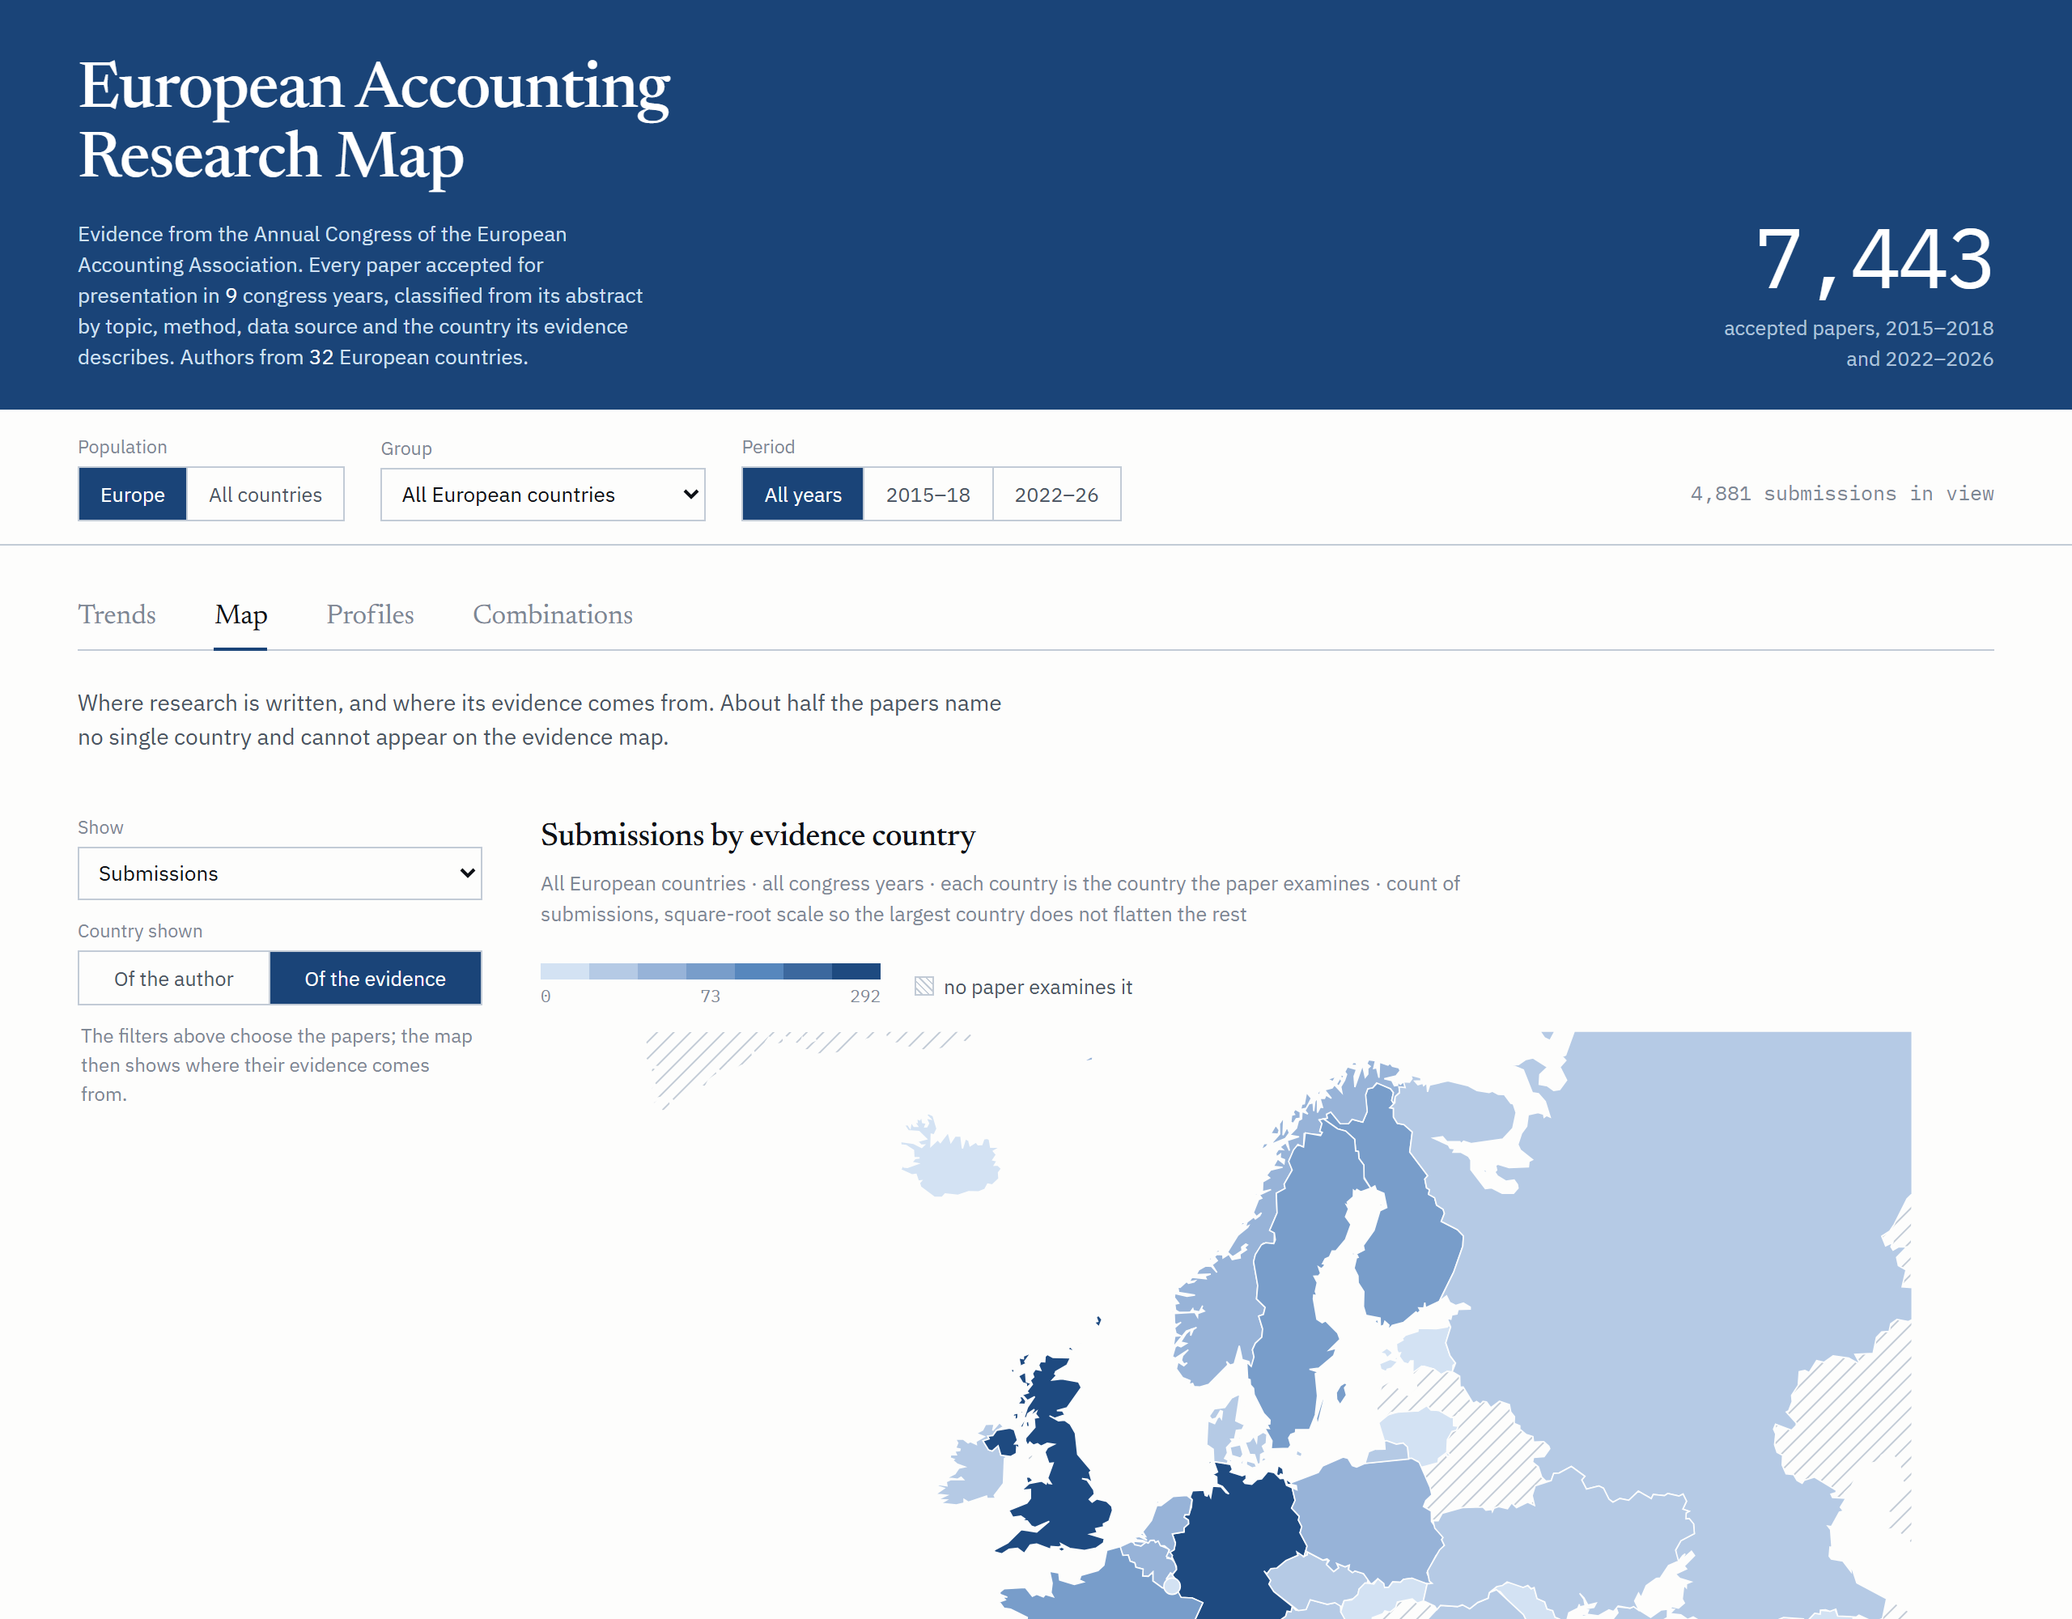
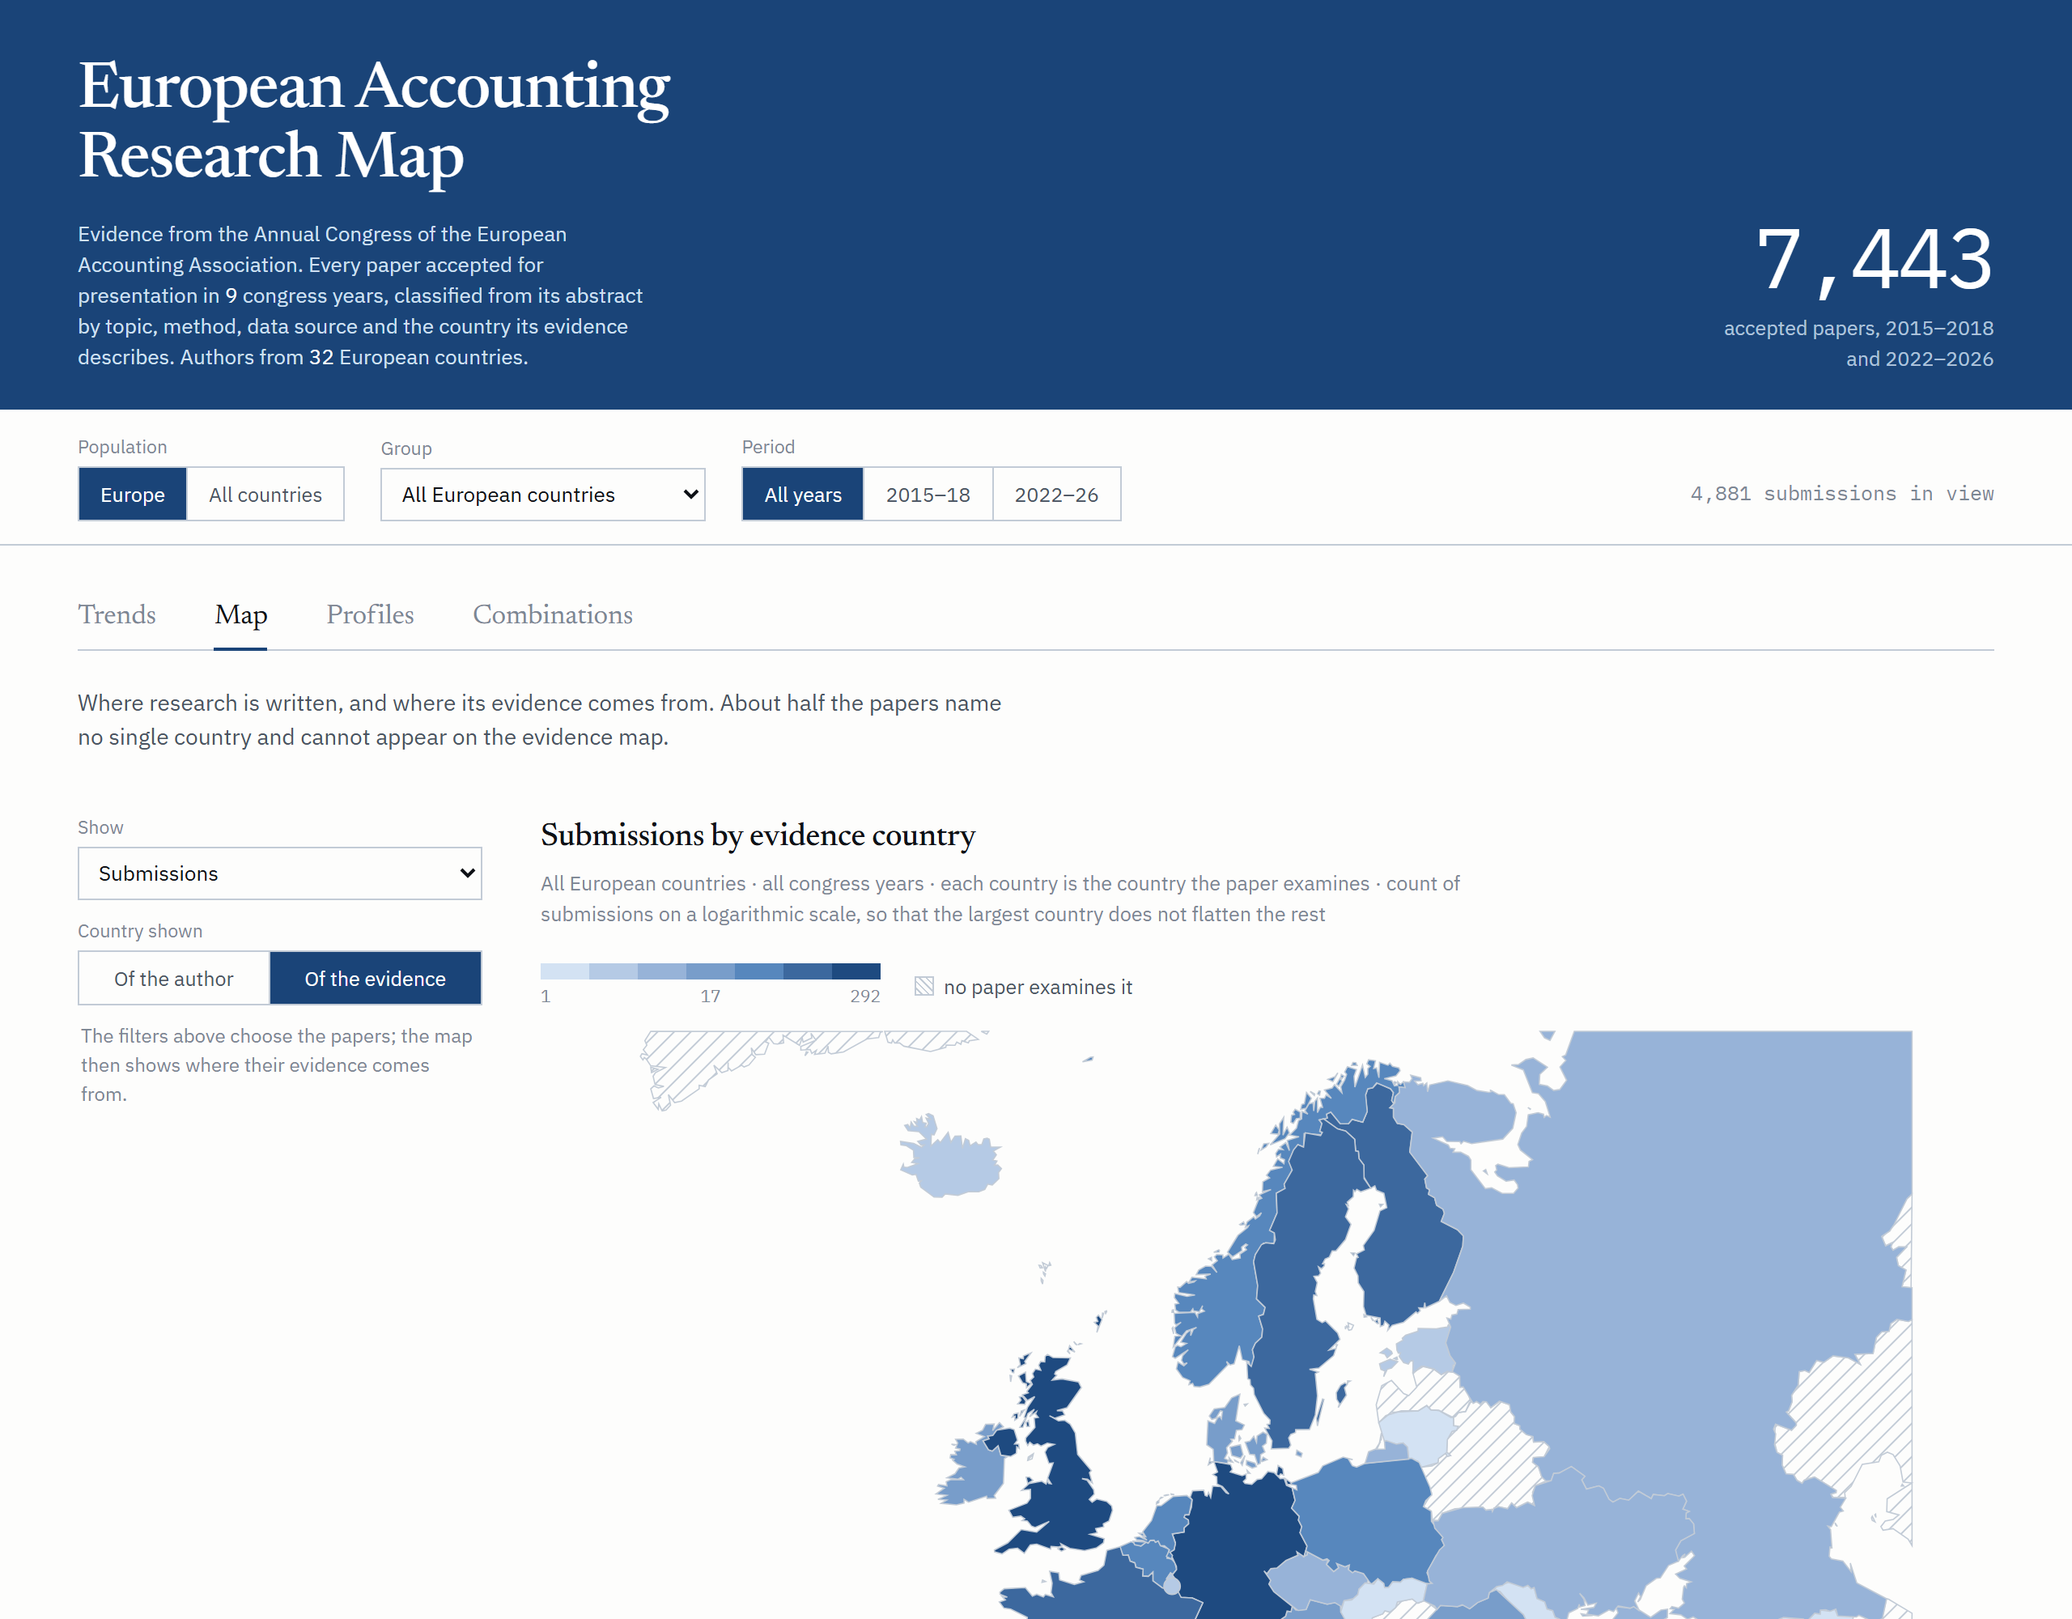
Logarithmic counts and visible borders, so small countries are findable

diff --git a/docs/index.html b/docs/index.html
@@ -222,7 +222,7 @@ tbody tr:last-child { border-bottom:0; }
 .foot b { color:var(--ink-2); font-weight:500; }
 /* map: sized by its own frame rather than stretched to the column */
 #m-plot svg { display:block; width:auto; max-width:100%; max-height:560px; }
-.shape { stroke:var(--surface); stroke-width:0.7; }
+.shape { stroke:var(--axis); stroke-width:0.8; vector-effect:non-scaling-stroke; }
 /* Colour cannot reliably separate "at the average", "no data" and "not in
    this map" at low chroma, least of all for a colour-blind reader. So only
    countries with something to show are filled; the rest are told apart by
@@ -934,14 +934,14 @@ function mapDim() {
   return ['topics','methods','sources'].includes(S.mshow) ? S.mshow : null;
 }
 
-function rampLegend(max, sqrtScale, pct, tokens, diverging) {
+function rampLegend(max, logScale, pct, tokens, diverging) {
   const w = 210, sw = w / 7;
   const svg = el('svg', { viewBox: '0 0 ' + w + ' 28', width: w, height: 28,
     role: 'img', 'aria-label': 'colour scale' });
   for (let k = 0; k < 7; k++)
     svg.appendChild(el('rect', { x: k * sw, y: 0, width: sw + 0.4, height: 10, fill: cssv(tokens[k]) }));
   const at = k => diverging ? (k / 7 * 2 - 1) * max
-                : sqrtScale ? Math.pow(k / 7, 2) * max : k / 7 * max;
+                : logScale ? Math.pow(max, k / 7) : k / 7 * max;
   const lab = v => diverging ? (v > 0 ? '+' : '') + Math.round(v) + ' pp'
                  : pct ? fmt(v, v > 0 && v < 10 ? 1 : 0) + '%'
                  : Math.round(v).toLocaleString('en-US');
@@ -995,7 +995,10 @@ function drawMap() {
                      .sort((a, b) => b.n - a.n);
 
   const vals = [...per.values()].filter(o => o.v !== null && placed(o.code)).map(o => o.v);
-  const sqrtScale = !I;              // counts are heavily skewed, differences are not
+  // Counts run from one paper to more than a thousand. On a linear or even a
+  // square-root scale every small country lands in the palest step and cannot
+  // be told apart from the page; on a logarithmic one they separate.
+  const logScale = !I;
   // Counts run to the largest observed value so the darkest step is a real
   // country. Differences run symmetrically about zero, so that the neutral
   // middle of the ramp always means "the same as Europe".
@@ -1003,7 +1006,7 @@ function drawMap() {
                 : Math.max(0.001, ...(vals.length ? vals : [1]));
   const bucket = I
     ? v => Math.min(6, Math.max(0, Math.floor((v + max) / (2 * max) * 7 * 0.999)))
-    : v => Math.min(6, Math.floor(Math.sqrt(v / max) * 7 * 0.999));
+    : v => Math.min(6, Math.max(0, Math.floor(Math.log(v) / Math.log(max) * 7 * 0.999)));
 
   // In the evidence view every country on earth is eligible; in the author
   // view the population and group filters decide who belongs on the map.
@@ -1113,7 +1116,7 @@ function drawMap() {
   } else if (used.ramp) {
     const sp = document.createElement('span');
     sp.className = 'ramp';
-    sp.appendChild(rampLegend(max, sqrtScale, !!I, I ? DR : QR, !!I));
+    sp.appendChild(rampLegend(max, logScale, !!I, I ? DR : QR, !!I));
     lg.appendChild(sp);
   }
   if (used.thin) swatch('repeating-linear-gradient(45deg, transparent 0 2px, ' +
@@ -1141,7 +1144,8 @@ function drawMap() {
         (I ? 'percentage points above or below the European share of ' + fmt(pE) +
              ' percent · shaded only from ' + MINN + ' submissions upward, because below that a ' +
              'share describes a research group rather than a country'
-           : 'count of submissions, square-root scale so the largest country does not flatten the rest');
+           : 'count of submissions on a logarithmic scale, so that the largest country ' +
+             'does not flatten the rest');
 
   const note = [];
   if (!family && S.mbasis === 'evidence')

diff --git a/build/dashboard.html b/build/dashboard.html
@@ -198,7 +198,7 @@ tbody tr:last-child { border-bottom:0; }
 .foot b { color:var(--ink-2); font-weight:500; }
 /* map: sized by its own frame rather than stretched to the column */
 #m-plot svg { display:block; width:auto; max-width:100%; max-height:560px; }
-.shape { stroke:var(--surface); stroke-width:0.7; }
+.shape { stroke:var(--axis); stroke-width:0.8; vector-effect:non-scaling-stroke; }
 /* Colour cannot reliably separate "at the average", "no data" and "not in
    this map" at low chroma, least of all for a colour-blind reader. So only
    countries with something to show are filled; the rest are told apart by
@@ -909,14 +909,14 @@ function mapDim() {
   return ['topics','methods','sources'].includes(S.mshow) ? S.mshow : null;
 }
 
-function rampLegend(max, sqrtScale, pct, tokens, diverging) {
+function rampLegend(max, logScale, pct, tokens, diverging) {
   const w = 210, sw = w / 7;
   const svg = el('svg', { viewBox: '0 0 ' + w + ' 28', width: w, height: 28,
     role: 'img', 'aria-label': 'colour scale' });
   for (let k = 0; k < 7; k++)
     svg.appendChild(el('rect', { x: k * sw, y: 0, width: sw + 0.4, height: 10, fill: cssv(tokens[k]) }));
   const at = k => diverging ? (k / 7 * 2 - 1) * max
-                : sqrtScale ? Math.pow(k / 7, 2) * max : k / 7 * max;
+                : logScale ? Math.pow(max, k / 7) : k / 7 * max;
   const lab = v => diverging ? (v > 0 ? '+' : '') + Math.round(v) + ' pp'
                  : pct ? fmt(v, v > 0 && v < 10 ? 1 : 0) + '%'
                  : Math.round(v).toLocaleString('en-US');
@@ -970,7 +970,10 @@ function drawMap() {
                      .sort((a, b) => b.n - a.n);
 
   const vals = [...per.values()].filter(o => o.v !== null && placed(o.code)).map(o => o.v);
-  const sqrtScale = !I;              // counts are heavily skewed, differences are not
+  // Counts run from one paper to more than a thousand. On a linear or even a
+  // square-root scale every small country lands in the palest step and cannot
+  // be told apart from the page; on a logarithmic one they separate.
+  const logScale = !I;
   // Counts run to the largest observed value so the darkest step is a real
   // country. Differences run symmetrically about zero, so that the neutral
   // middle of the ramp always means "the same as Europe".
@@ -978,7 +981,7 @@ function drawMap() {
                 : Math.max(0.001, ...(vals.length ? vals : [1]));
   const bucket = I
     ? v => Math.min(6, Math.max(0, Math.floor((v + max) / (2 * max) * 7 * 0.999)))
-    : v => Math.min(6, Math.floor(Math.sqrt(v / max) * 7 * 0.999));
+    : v => Math.min(6, Math.max(0, Math.floor(Math.log(v) / Math.log(max) * 7 * 0.999)));
 
   // In the evidence view every country on earth is eligible; in the author
   // view the population and group filters decide who belongs on the map.
@@ -1088,7 +1091,7 @@ function drawMap() {
   } else if (used.ramp) {
     const sp = document.createElement('span');
     sp.className = 'ramp';
-    sp.appendChild(rampLegend(max, sqrtScale, !!I, I ? DR : QR, !!I));
+    sp.appendChild(rampLegend(max, logScale, !!I, I ? DR : QR, !!I));
     lg.appendChild(sp);
   }
   if (used.thin) swatch('repeating-linear-gradient(45deg, transparent 0 2px, ' +
@@ -1116,7 +1119,8 @@ function drawMap() {
         (I ? 'percentage points above or below the European share of ' + fmt(pE) +
              ' percent · shaded only from ' + MINN + ' submissions upward, because below that a ' +
              'share describes a research group rather than a country'
-           : 'count of submissions, square-root scale so the largest country does not flatten the rest');
+           : 'count of submissions on a logarithmic scale, so that the largest country ' +
+             'does not flatten the rest');
 
   const note = [];
   if (!family && S.mbasis === 'evidence')

diff --git a/src/template.html b/src/template.html
@@ -198,7 +198,7 @@ tbody tr:last-child { border-bottom:0; }
 .foot b { color:var(--ink-2); font-weight:500; }
 /* map: sized by its own frame rather than stretched to the column */
 #m-plot svg { display:block; width:auto; max-width:100%; max-height:560px; }
-.shape { stroke:var(--surface); stroke-width:0.7; }
+.shape { stroke:var(--axis); stroke-width:0.8; vector-effect:non-scaling-stroke; }
 /* Colour cannot reliably separate "at the average", "no data" and "not in
    this map" at low chroma, least of all for a colour-blind reader. So only
    countries with something to show are filled; the rest are told apart by
@@ -909,14 +909,14 @@ function mapDim() {
   return ['topics','methods','sources'].includes(S.mshow) ? S.mshow : null;
 }
 
-function rampLegend(max, sqrtScale, pct, tokens, diverging) {
+function rampLegend(max, logScale, pct, tokens, diverging) {
   const w = 210, sw = w / 7;
   const svg = el('svg', { viewBox: '0 0 ' + w + ' 28', width: w, height: 28,
     role: 'img', 'aria-label': 'colour scale' });
   for (let k = 0; k < 7; k++)
     svg.appendChild(el('rect', { x: k * sw, y: 0, width: sw + 0.4, height: 10, fill: cssv(tokens[k]) }));
   const at = k => diverging ? (k / 7 * 2 - 1) * max
-                : sqrtScale ? Math.pow(k / 7, 2) * max : k / 7 * max;
+                : logScale ? Math.pow(max, k / 7) : k / 7 * max;
   const lab = v => diverging ? (v > 0 ? '+' : '') + Math.round(v) + ' pp'
                  : pct ? fmt(v, v > 0 && v < 10 ? 1 : 0) + '%'
                  : Math.round(v).toLocaleString('en-US');
@@ -970,7 +970,10 @@ function drawMap() {
                      .sort((a, b) => b.n - a.n);
 
   const vals = [...per.values()].filter(o => o.v !== null && placed(o.code)).map(o => o.v);
-  const sqrtScale = !I;              // counts are heavily skewed, differences are not
+  // Counts run from one paper to more than a thousand. On a linear or even a
+  // square-root scale every small country lands in the palest step and cannot
+  // be told apart from the page; on a logarithmic one they separate.
+  const logScale = !I;
   // Counts run to the largest observed value so the darkest step is a real
   // country. Differences run symmetrically about zero, so that the neutral
   // middle of the ramp always means "the same as Europe".
@@ -978,7 +981,7 @@ function drawMap() {
                 : Math.max(0.001, ...(vals.length ? vals : [1]));
   const bucket = I
     ? v => Math.min(6, Math.max(0, Math.floor((v + max) / (2 * max) * 7 * 0.999)))
-    : v => Math.min(6, Math.floor(Math.sqrt(v / max) * 7 * 0.999));
+    : v => Math.min(6, Math.max(0, Math.floor(Math.log(v) / Math.log(max) * 7 * 0.999)));
 
   // In the evidence view every country on earth is eligible; in the author
   // view the population and group filters decide who belongs on the map.
@@ -1088,7 +1091,7 @@ function drawMap() {
   } else if (used.ramp) {
     const sp = document.createElement('span');
     sp.className = 'ramp';
-    sp.appendChild(rampLegend(max, sqrtScale, !!I, I ? DR : QR, !!I));
+    sp.appendChild(rampLegend(max, logScale, !!I, I ? DR : QR, !!I));
     lg.appendChild(sp);
   }
   if (used.thin) swatch('repeating-linear-gradient(45deg, transparent 0 2px, ' +
@@ -1116,7 +1119,8 @@ function drawMap() {
         (I ? 'percentage points above or below the European share of ' + fmt(pE) +
              ' percent · shaded only from ' + MINN + ' submissions upward, because below that a ' +
              'share describes a research group rather than a country'
-           : 'count of submissions, square-root scale so the largest country does not flatten the rest');
+           : 'count of submissions on a logarithmic scale, so that the largest country ' +
+             'does not flatten the rest');
 
   const note = [];
   if (!family && S.mbasis === 'evidence')

diff --git a/README.md b/README.md
@@ -276,8 +276,13 @@ output, so it is mostly a map of how large a country's academic market is.
 What the map therefore colours is the distance from the European average in
 percentage points, on the same reference the profiles view uses, on a
 diverging scale whose neutral middle means "the same as Europe". Counts
-remain available as their own view, on a square-root scale so that two
-countries do not flatten the other thirty.
+remain available as their own view, on a logarithmic scale, because the
+counts run from one paper to more than a thousand: on a linear or even a
+square-root scale every small country lands in the palest step and cannot be
+told apart from bare paper. That is not hypothetical. A co-author reported
+that Georgia had disappeared from the map although it is in the paper's
+country table; it was there all along, four papers deep in the palest tint,
+outlined in white against a white page.
 
 **A country needs at least 30 submissions before it is shaded.** Below that
 the number describes a research group rather than a research community. Such
@@ -285,6 +290,11 @@ countries are hatched, and the table still reports their raw share, so
 nothing is hidden. The rule costs 15 of 32 countries over all years and 15 of
 30 in the thinner early period; the alternative was letting nineteen papers
 set the darkest colour on the map.
+
+**Countries are outlined, not separated by white.** White borders erase a
+pale country: at the bottom of the ramp the fill sits close to the page, so
+without a boundary the country reads as background rather than as a country
+with little in it.
 
 **Three states, three forms, so colour is not asked to carry meaning it
 cannot.** A country with data is filled; a country with too little is

diff --git a/HANDOVER.md b/HANDOVER.md
@@ -102,7 +102,12 @@ laeuft stabil. Chrome und Playwright sind installiert, `gh` nicht.
    europaeischen Durchschnitt in Prozentpunkten**, divergierende Skala,
    neutrale Mitte = wie Europa, gleiche Referenz wie die Profilansicht.
    Mindestbasis 30 Einreichungen, darunter schraffiert; die Tabelle zeigt den
-   Rohanteil weiterhin.
+   Rohanteil weiterhin. **Anzahlen laufen logarithmisch** und jedes Land hat
+   eine sichtbare Kontur: mit Wurzelskala und weissen Grenzen landeten alle
+   kleinen Laender im blassesten Schritt und waren vom Papier nicht zu
+   unterscheiden. Ein Koautor meldete, Georgien sei von der Karte
+   verschwunden, obwohl es in Tabelle A.1 steht &#8212; es war die ganze Zeit da,
+   vier Papiere tief im hellsten Ton.
 10. **Drei Zustaende, drei Formen:** Flaeche = hat Daten, Schraffur = zu
    wenig, Umriss = nicht Teil dieser Auswahl. Grund: `validate_palette.py`
    zeigte, dass im Dunkelmodus "am Durchschnitt" und "keine Daten" **exakt
